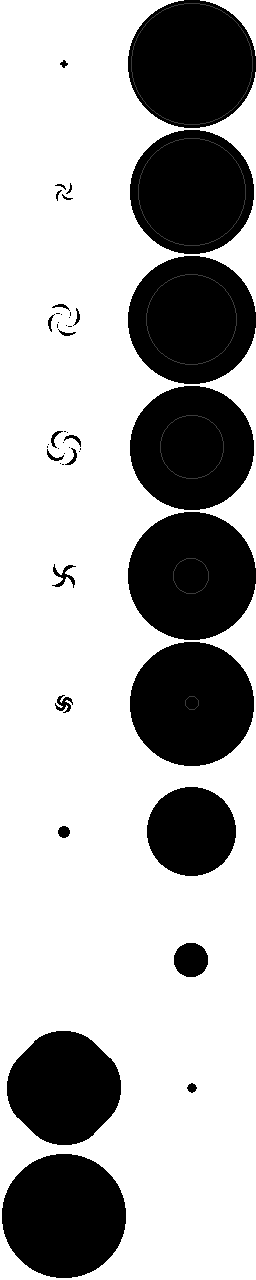
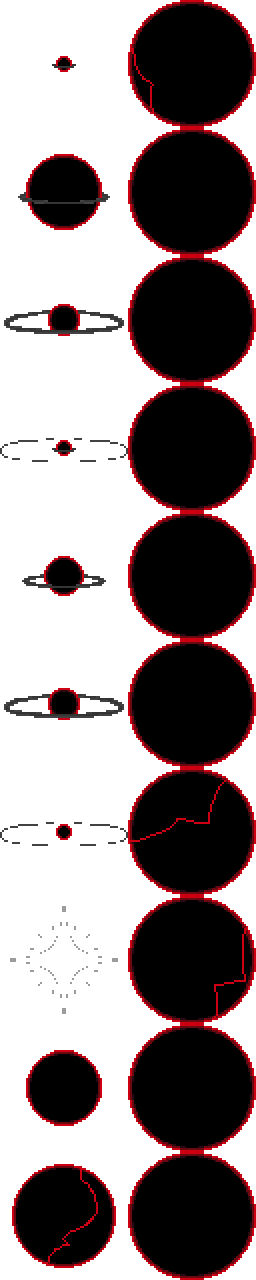
Significantly improved black hole

diff --git a/Items/Magic/DarkTooth.cs b/Items/Magic/DarkTooth.cs
@@ -38,7 +38,7 @@ namespace EBF.Items.Magic
             Item.noMelee = true;
 
             Item.shoot = ModContent.ProjectileType<DarkTooth_BlackHole>();
-            Item.shootSpeed = 0.1f; //Must be > 0 to make the held item rotate when used
+            Item.shootSpeed = 0.01f; //Must be > 0 to make the held item rotate when used
         }
         public override void UseStyle(Player player, Rectangle heldItemFrame)
         {
@@ -102,6 +102,7 @@ namespace EBF.Items.Magic
         private const float defaultSuckRange = 160;//The default range in which objects will be SUCCED
         private const float maxSize = 400f;
         private const float maxSpeed = 5f;
+        private float currentSpeed = 0f;
         private float suckRange;//The current range in which objects will be SUCCED
         private int baseWidth;
         private int baseHeight;
@@ -115,7 +116,7 @@ namespace EBF.Items.Magic
             Projectile.width = 128;
             Projectile.height = 128;
 
-            Projectile.friendly = true;
+            Projectile.friendly = false;
             Projectile.penetrate = -1;
             Projectile.DamageType = DamageClass.Magic;
             Projectile.knockBack = 1f;
@@ -128,47 +129,55 @@ namespace EBF.Items.Magic
         }
         public override bool PreAI()
         {
-            //Run this code once every 5 updates
-            if (Main.GameUpdateCount % 5 == 0)
+            //Run this code once every 8 updates
+            if (Main.GameUpdateCount % 8 == 0)
             {
                 Projectile.frame++;
                 if (Projectile.frame == 8)
                 {
                     //When the black hole first appears, spawn a bunch of dust
                     CreateSpawningDust();
+                    Projectile.friendly = true;
                 }
 
-                if (Projectile.frame >= 10)
+                //Loop animation
+                if (Projectile.frame >= 19)
                 {
-                    //Spawn dust passively
-                    Color drawColor = Main.rand.NextBool(2) ? Color.Black : Color.Red;
-                    Dust.NewDust(Projectile.position, Projectile.width, Projectile.height, DustID.Smoke, newColor: drawColor, Scale: 1f);
+                    Projectile.frame = 10;
+                }
 
-                    // Mouse position can vary in multiplayer, so this code must only run on the client
-                    if (Main.myPlayer == Projectile.owner)
+                //Rotate randomly
+                if (Projectile.frame > 9)
+                {
+                    Projectile.rotation = Main.rand.NextFloat(0, (float)Math.Tau);
+                }
+            }
+
+            //While active
+            if (Projectile.frame >= 10)
+            {
+                //Spawn dust passively
+                Color drawColor = Main.rand.NextBool(2) ? Color.Black : Color.Red;
+                Dust.NewDust(Projectile.position, Projectile.width, Projectile.height, DustID.Smoke, newColor: drawColor);
+
+                // Mouse position can vary in multiplayer, so this code must only run on the client
+                if (Main.myPlayer == Projectile.owner)
+                {
+                    HandleAudioLoop();
+                    MoveTowardsCursor();//The movement of the black hole
+
+                    //This check only works if item.channel is true for the weapon.
+                    Player player = Main.player[Projectile.owner];
+                    if (player.channel)
                     {
-                        HandleAudioLoop();
-                        MoveTowardsCursor();//The movement of the black hole
-
-                        //This check only works if item.channel is true for the weapon.
-                        Player player = Main.player[Projectile.owner];
-                        if (player.channel)
-                        {
-                            IncreaseScale();
-                            SuckNPCs(suckRange, suckingStrength: 100);
-                            SuckGore(suckRange, suckingStrength: 100);
-                            SuckDust(suckRange, suckingStrength: 100);
-                        }
-                        else
-                        {
-                            Explode();
-                        }
+                        IncreaseScale();
+                        SuckNPCs(suckRange, suckingStrength: 20);
+                        SuckGore(suckRange, suckingStrength: 20);
+                        SuckDust(suckRange, suckingStrength: 20);
                     }
-
-                    //Loop animation
-                    if (Projectile.frame >= 16)
+                    else
                     {
-                        Projectile.frame = 10;
+                        Explode();
                     }
                 }
             }
@@ -224,10 +233,17 @@ namespace EBF.Items.Magic
         }
         private void MoveTowardsCursor() //Movement of the black hole
         {
-            Vector2 newVelocity = Main.MouseWorld - Projectile.Center;
-            if (newVelocity.Length() > maxSpeed)
+            //Gradually build up speed
+            if(currentSpeed < maxSpeed)
             {
-                newVelocity = Vector2.Normalize(newVelocity) * maxSpeed;
+                currentSpeed += 0.1f;
+            }
+
+            //Set direction
+            Vector2 newVelocity = Main.MouseWorld - Projectile.Center;
+            if (newVelocity.Length() > currentSpeed)
+            {
+                newVelocity = Vector2.Normalize(newVelocity) * currentSpeed;
             }
 
             //Limit how often velocity syncs in multiplayer by truncating the decimals
@@ -242,14 +258,14 @@ namespace EBF.Items.Magic
         {
             if (Projectile.width < maxSize)
             {
-                Projectile.scale += 0.05f;
+                Projectile.scale += 0.01f;
                 suckRange = defaultSuckRange * Projectile.scale;
                 int newWidth = (int)(baseWidth * Projectile.scale);
                 int newHeight = (int)(baseHeight * Projectile.scale);
                 ProjectileExtensions.ExpandHitboxBy(Projectile, newWidth, newHeight);
             }
         }
-        private void SuckNPCs(float suckingRange, float suckingStrength = 100)
+        private void SuckNPCs(float suckingRange, float suckingStrength = 20)
         {
             foreach (NPC npc in Main.npc)
             {
@@ -266,7 +282,7 @@ namespace EBF.Items.Magic
                 }
             }
         }
-        private void SuckGore(float suckingRange, float suckingStrength = 100)
+        private void SuckGore(float suckingRange, float suckingStrength = 20)
         {
             foreach (Gore gore in Main.gore)
             {
@@ -283,7 +299,7 @@ namespace EBF.Items.Magic
                 }
             }
         }
-        private void SuckDust(float suckingRange, float suckingStrength = 100)
+        private void SuckDust(float suckingRange, float suckingStrength = 20)
         {
             foreach (Dust dust in Main.dust)
             {
@@ -306,7 +322,7 @@ namespace EBF.Items.Magic
             ProjectileExtensions.ExpandHitboxBy(Projectile, (int)(Projectile.width * 1.5f), (int)(Projectile.height * 1.5f));
             int explosionDamage = Projectile.damage + Projectile.width;
 
-            foreach(NPC npc in Main.npc)
+            foreach (NPC npc in Main.npc)
             {
                 //Find any valid npc inside the hitbox
                 if (npc.active && !npc.friendly && !npc.dontTakeDamage && npc.Hitbox.Intersects(Projectile.Hitbox))
